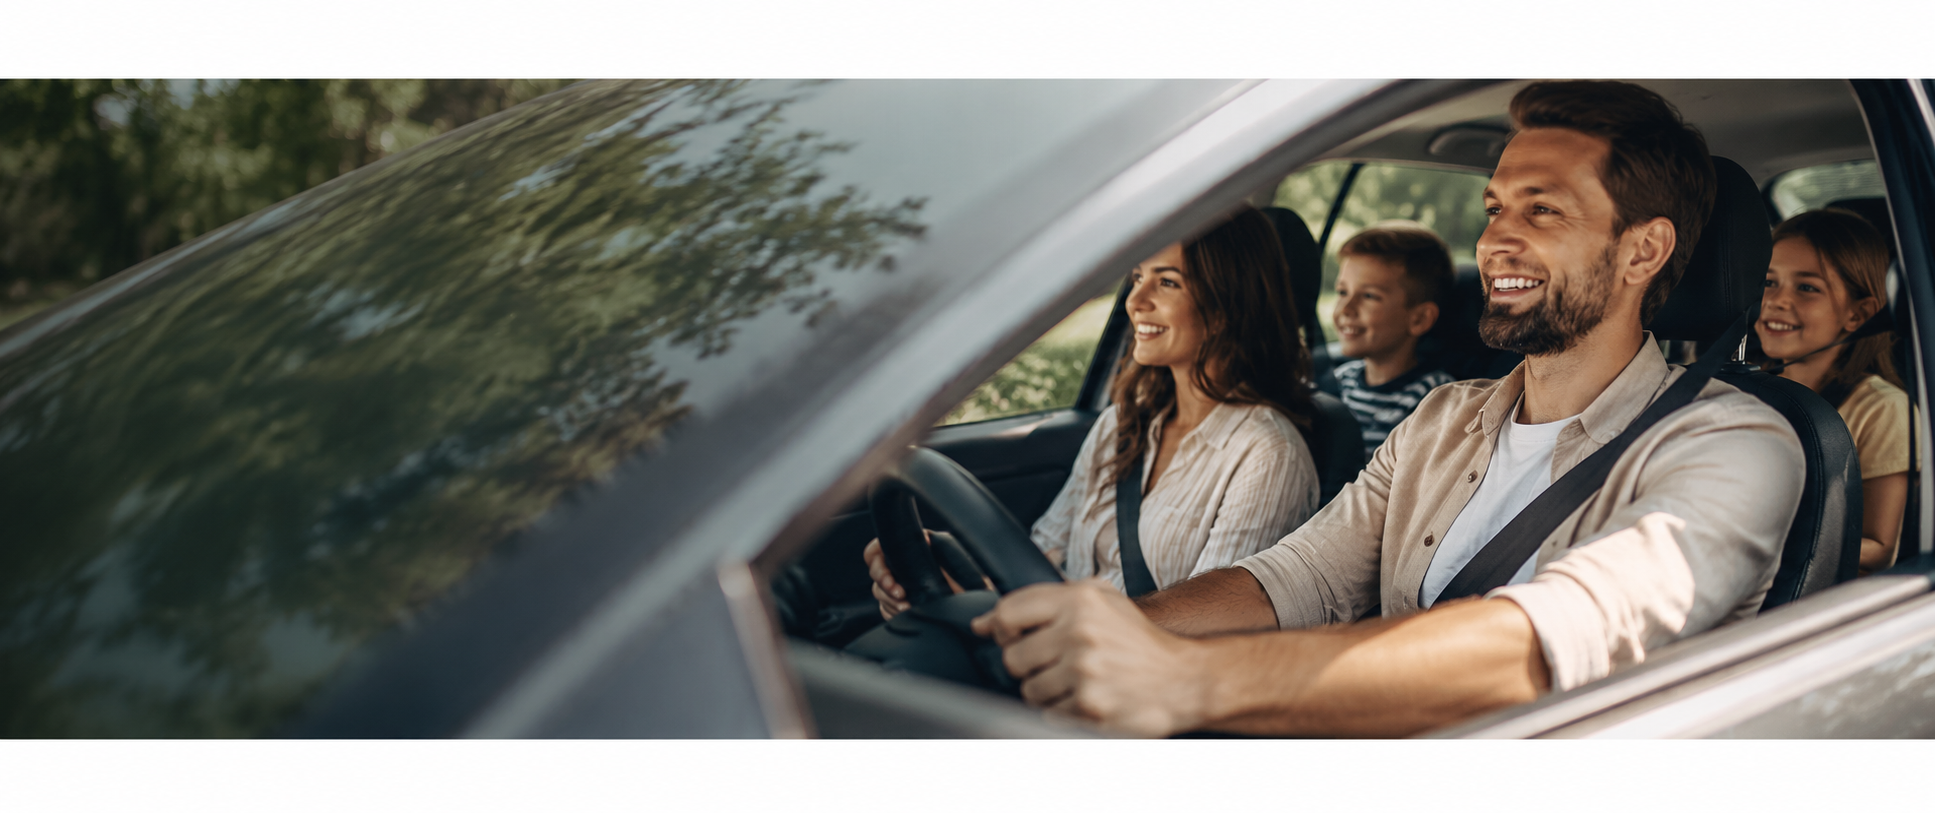
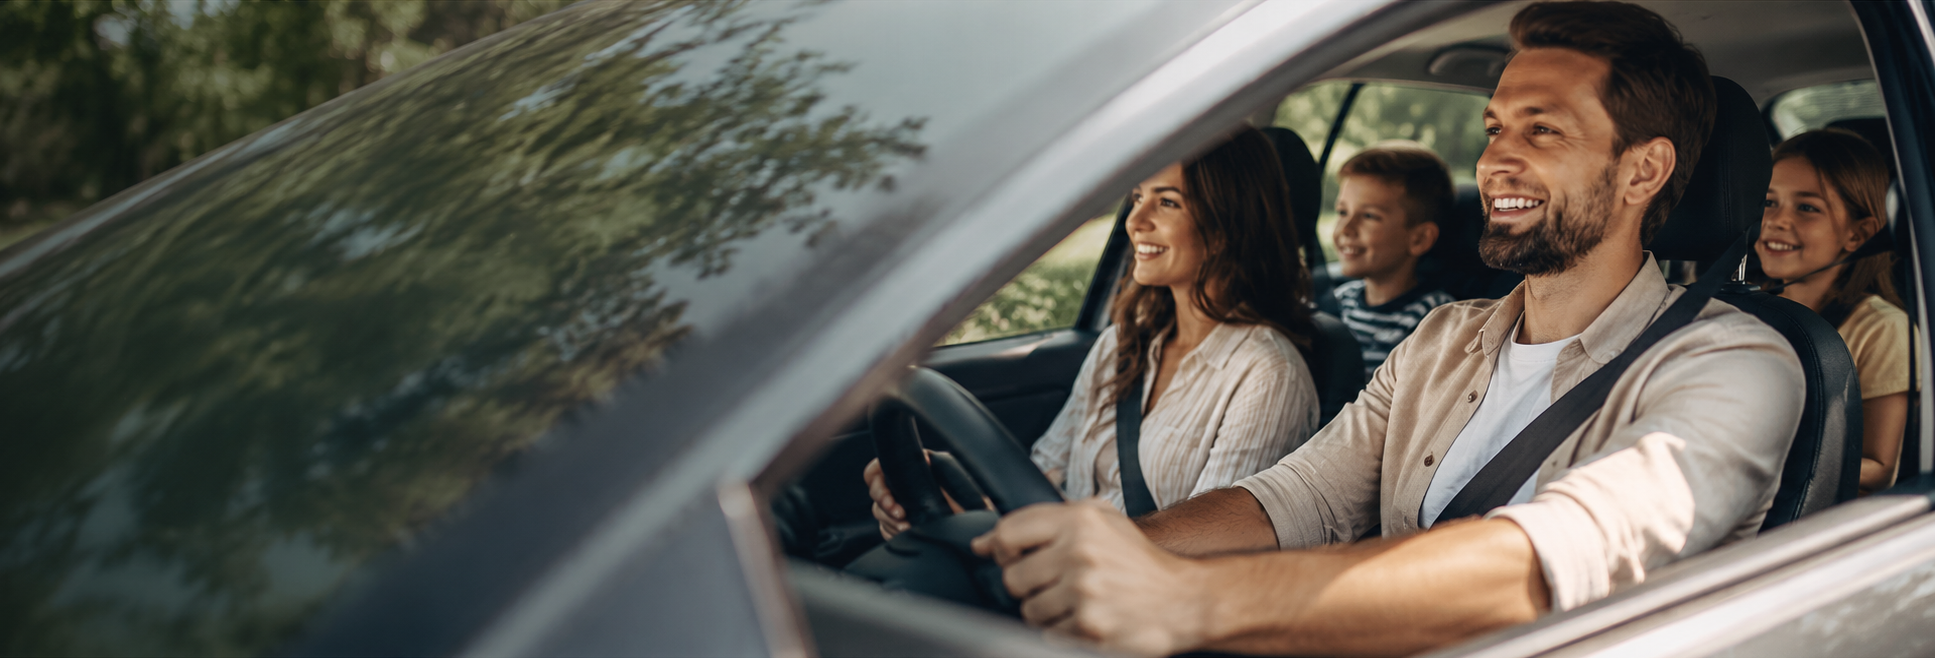
Fix middleware Edge (constante inline); hero texto más chico, sin cotizá tu usado, aclara usados y 0km, imagen sin bordes

diff --git a/app/page.tsx b/app/page.tsx
@@ -13,7 +13,7 @@ import { site, waLink } from '@/lib/site';
 import { IconArrow, IconCheck, IconClock, IconPhone, IconPin } from '@/components/icons';
 
 const reasons = [
-  { t: 'Usados revisados', d: 'Cada unidad pasa por control mecánico antes de la entrega.' },
+  { t: 'Usados y 0 km', d: 'Vendemos autos, camionetas y motos, usados revisados y unidades 0 km.' },
   { t: 'Financiación propia', d: 'Planes en cuotas que se adaptan a tu presupuesto y aprobación ágil.' },
   { t: 'Recibimos tu usado', d: 'Tomamos tu vehículo en parte de pago con una tasación justa.' },
   { t: 'Nos encargamos de todo', d: 'Trámites, transferencia y papeles: te lo dejamos listo.' },
@@ -41,16 +41,16 @@ export default async function HomePage() {
             <span className="inline-flex items-center gap-2 text-xs font-700 uppercase tracking-[0.2em] text-white/70">
               <span className="h-px w-7 bg-gold" /> Automotora en {site.city}
             </span>
-            <h1 className="mt-4 font-display text-3xl font-800 uppercase leading-[1.05] sm:text-4xl lg:text-5xl">
+            <h1 className="mt-3 font-display text-2xl font-800 uppercase leading-[1.1] sm:text-3xl lg:text-4xl">
               Encontrá tu próximo vehículo en JP Automóviles
             </h1>
-            <p className="mt-4 max-w-lg text-base leading-relaxed text-white/75">
-              Autos, camionetas y motos con garantía y financiación. Te asesoramos en todo el proceso,
-              con la confianza de siempre.
+            <p className="mt-4 max-w-lg text-sm leading-relaxed text-white/75 sm:text-base">
+              Autos, camionetas y motos, <strong className="font-700 text-white">usados y 0 km</strong>, con
+              garantía y financiación. Te asesoramos en todo el proceso.
             </p>
             <div className="mt-6 flex flex-wrap gap-3">
               <Link href="/catalogo" className="btn-gold">Ver stock <IconArrow className="h-4 w-4" /></Link>
-              <Link href="/permuta" className="btn-outline-light">Cotizá tu usado</Link>
+              <Link href="/financiacion" className="btn-outline-light">Ver financiación</Link>
             </div>
           </div>
         </div>

diff --git a/middleware.ts b/middleware.ts
@@ -1,5 +1,7 @@
 import { NextResponse, type NextRequest } from 'next/server';
-import { ADMIN_COOKIE } from '@/lib/auth-constants';
+
+// Inline (sin imports) para máxima compatibilidad con el runtime Edge.
+const ADMIN_COOKIE = 'jp_admin';
 
 // Gate liviano: si no hay cookie de sesión, al login. La verificación real
 // del token (HMAC) ocurre en el layout del panel y en las rutas de escritura.
